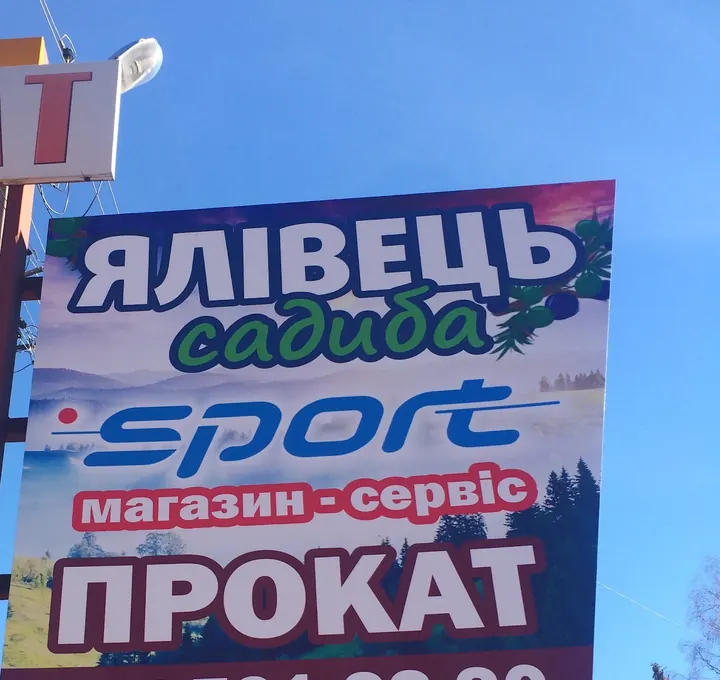
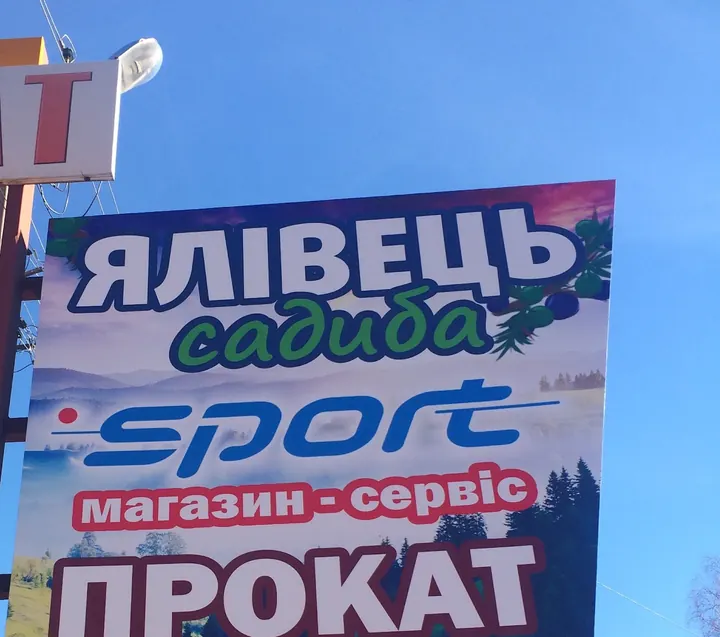
Tighten sign photo crop

diff --git a/index.html b/index.html
@@ -621,7 +621,7 @@ figcaption{font-size:13.5px;color:var(--mute);margin-top:10px;line-height:1.45}
     <div class="rent">
       <div class="rent__media" data-rv>
         <button class="zoom js-lb a" type="button" data-cap="Будиночок прокату на подвір'ї"><img src="img/prokat-s.webp" alt="Помаранчевий будиночок прокату з дерева з фотографією лижника у вікні" loading="lazy" width="540" height="720"></button>
-        <button class="zoom js-lb b" type="button" data-cap="Вивіска садиби і прокату"><img src="img/vyviska-s.webp" alt="Вивіска: садиба «Ялівець», спортивний магазин і сервіс, прокат" loading="lazy" width="720" height="680"></button>
+        <button class="zoom js-lb b" type="button" data-cap="Вивіска садиби і прокату"><img src="img/vyviska-s.webp" alt="Вивіска: садиба «Ялівець», спортивний магазин і сервіс, прокат" loading="lazy" width="720" height="637"></button>
       </div>
       <div data-rv>
         <p class="kicker"><svg class="i" aria-hidden="true"><use href="#i-ski"/></svg>Прокат і сервіс</p>
